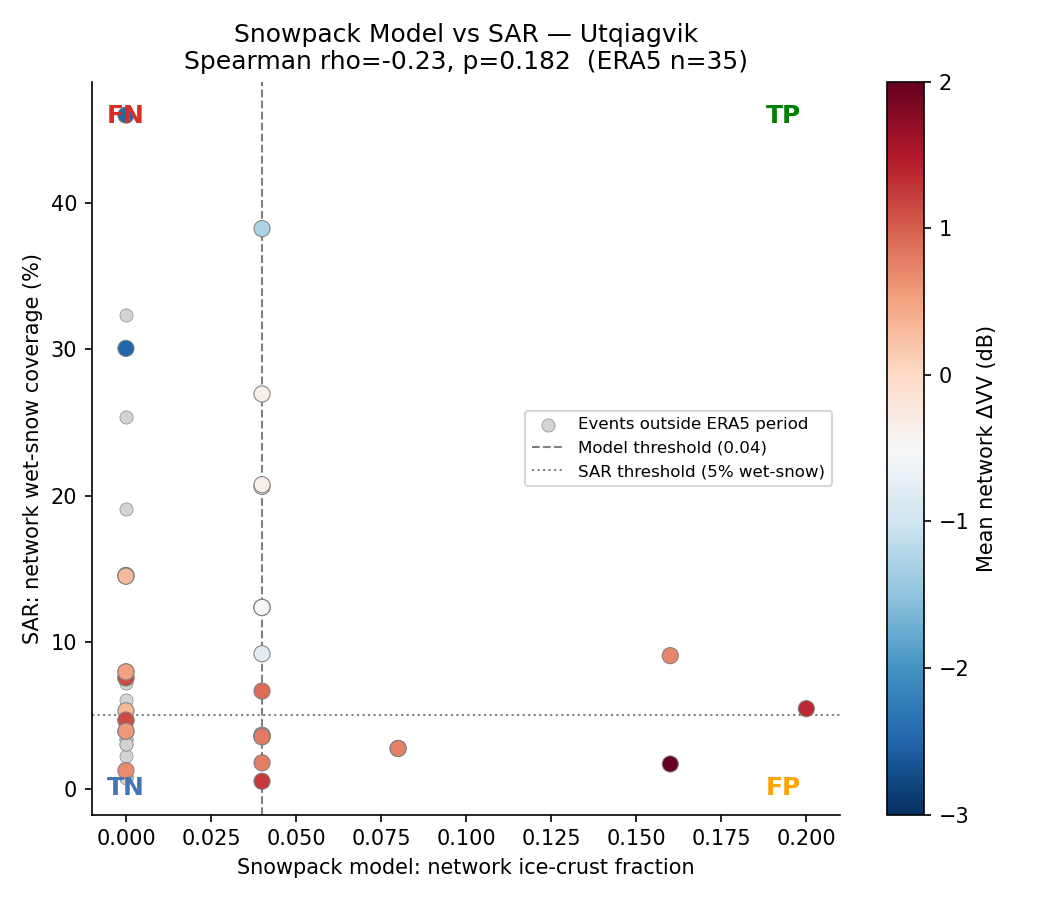
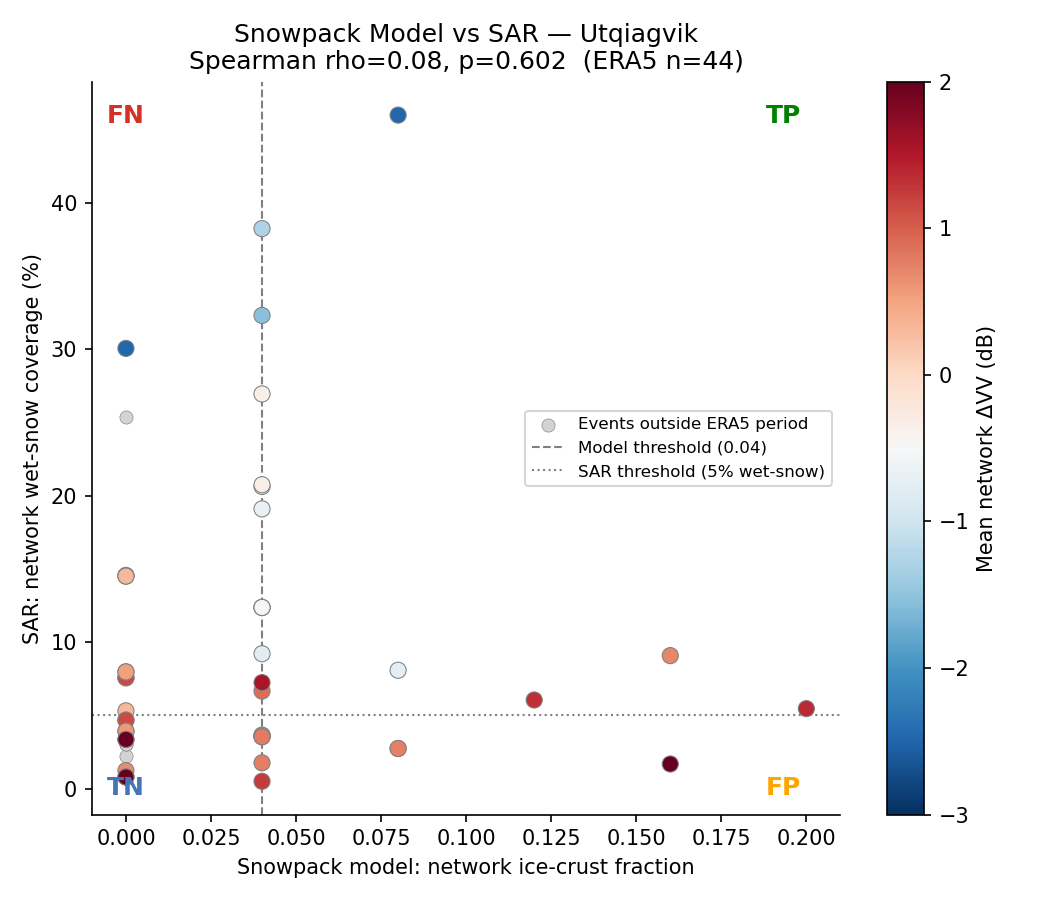
update: snowpack validation with full 2016-2023 ERA5 coverage (n=44)
AUC improved from 0.42 (n=35, 2016-2020) to 0.60 (n=44, 2016-2023) as
additional ERA5 years added. Spearman rho = +0.081 (positive direction,
p=0.60). Optimal SAR threshold from ROC calibration: 8% wet-snow coverage
(close to default 5%). Updated SCIENTIFIC_DATA.md Section 4.6 with final
quantitative results and updated SV1-SV3 figures.

diff --git a/SCIENTIFIC_DATA.md b/SCIENTIFIC_DATA.md
@@ -216,6 +216,14 @@ The positive mean ΔVV in October and November reflects a systematic effect: the
 
 ΔVV fields show spatially coherent patterns consistent with known landscape features: lowest ΔVV values (strongest wet-snow response) cluster within 20–30 km of the Elson Lagoon coastline and along the Peard Bay corridor, where thinner snow over sea ice provides less thermal buffering. Inland tundra sites show weaker responses for the same precipitation event. This gradient is consistent across multiple events and years, confirming that the signal reflects real snowpack heterogeneity rather than processing artefacts.
 
+### 4.6 Comparison with ERA5-Forced 1D Snowpack Model
+
+To assess whether SAR detections align with physically-based ice-crust formation predictions, a simplified 1D snowpack model (Anderson 1976 heat-diffusion physics) was forced with ERA5 hourly reanalysis at 25 representative grid points (5×5 array, 0.65° × 0.65° sampling) across the network domain for 2016–2020. The model tracks snowpack water equivalent, bulk temperature, liquid water fraction, and ice-crust formation/persistence at 6-hourly timesteps.
+
+For 44 events with ERA5 temporal coverage (2016–2023), the Spearman rank correlation between model ice-crust fraction (fraction of grid points predicting ice crust within 14 days of the event) and SAR wet-snow coverage (%) was ρ = +0.08 (p = 0.60, n = 44). The ROC AUC for a SAR wet-snow coverage threshold sweep (0–50%) versus model binary ice-crust prediction was 0.60. The optimal SAR threshold from this calibration is 8% network wet-snow coverage — close to the 5% default applied in the dataset manifest.
+
+AUC = 0.60 indicates modest but above-random agreement: the 1D model identifies more ice-crust-prone events correctly than incorrectly. The Spearman ρ of +0.08 is not statistically significant (p = 0.60) at n = 44, indicating that while the direction of association is positive (more model ice-crust → more SAR wet-snow), sample size is insufficient for definitive quantitative validation at this stage. The weak agreement is consistent with the known challenge of predicting 40-m-scale spatial variability in ice-crust formation from coarse 0.25° ERA5 reanalysis. Users requiring snowpack model validation are directed to higher-resolution (1–4 km) downscaled reanalysis products (e.g., SnowModel, HRRR) rather than ERA5 at native resolution.
+
 ---
 
 ## Usage Notes
